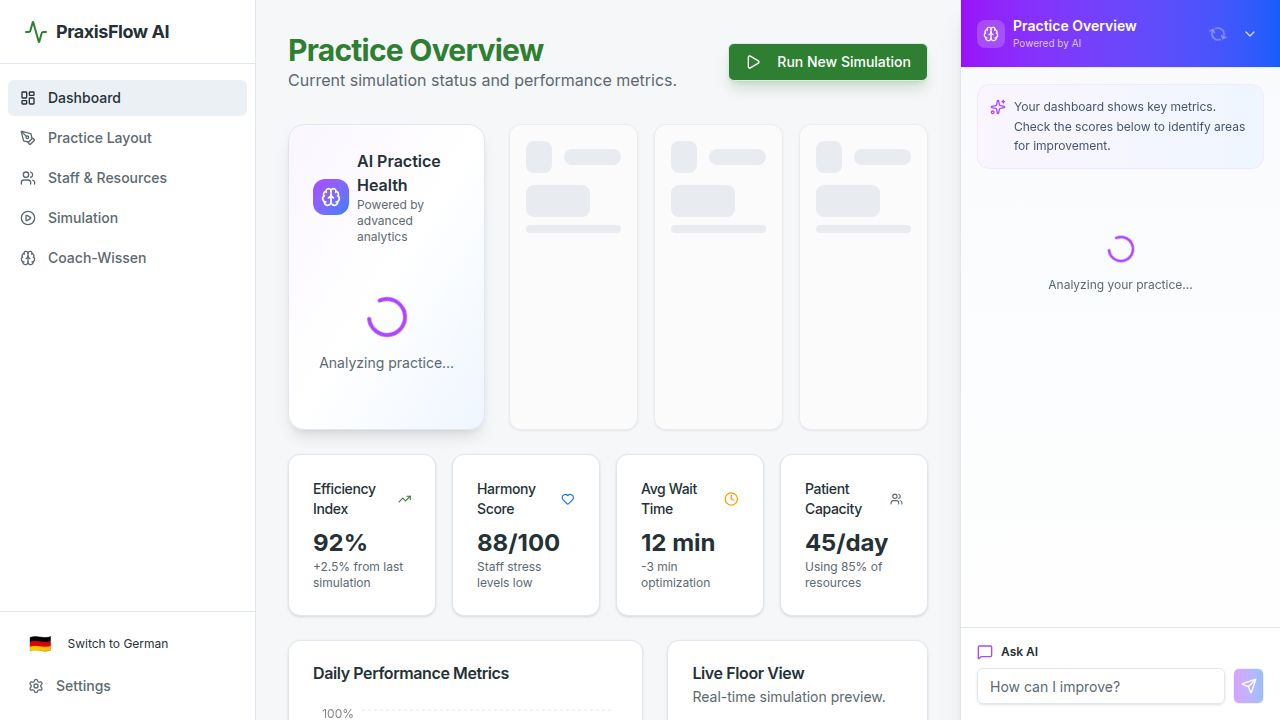
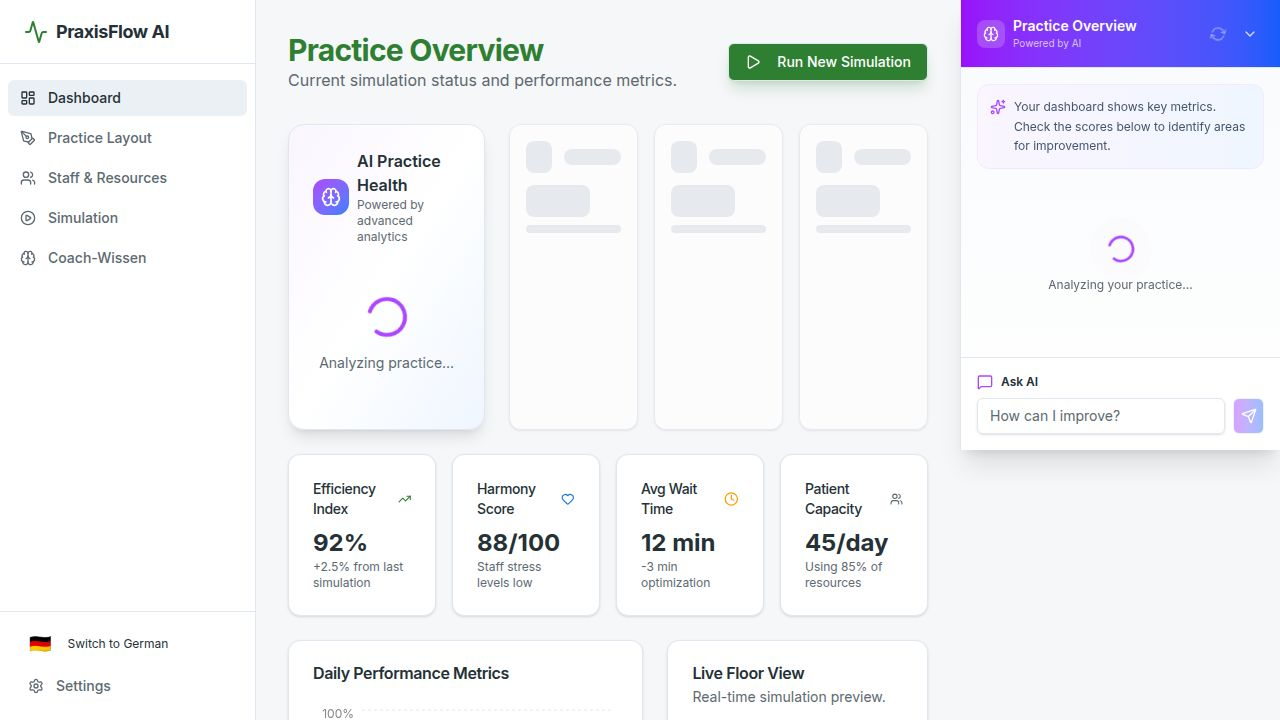
Improve app responsiveness for mobile devices
Introduce a mobile navigation component, adjust layout elements for smaller screens, and optimize key pages like Dashboard and Knowledge for better mobile usability.

Replit-Commit-Author: Agent
Replit-Commit-Session-Id: fae6921c-8e71-4e67-bf3e-06e2dc8d6d11
Replit-Commit-Checkpoint-Type: full_checkpoint
Replit-Commit-Event-Id: 71e1a9fe-9b61-4a62-8eae-fed97d4e99fb
Replit-Commit-Screenshot-Url: https://storage.googleapis.com/screenshot-production-us-central1/a2cf8f82-81da-4be9-860d-9f28859fb2c5/fae6921c-8e71-4e67-bf3e-06e2dc8d6d11/wstIgYH
Replit-Helium-Checkpoint-Created: true

diff --git a/client/src/components/layout/MobileNav.tsx b/client/src/components/layout/MobileNav.tsx
@@ -1,0 +1,71 @@
+import { useState } from "react";
+import { Link, useLocation } from "wouter";
+import { cn } from "@/lib/utils";
+import { LayoutDashboard, PenTool, Users, PlayCircle, Brain, Menu, X, Activity, Settings } from "lucide-react";
+import { useTranslation } from "react-i18next";
+import { LanguageToggle } from "./LanguageToggle";
+import { Button } from "@/components/ui/button";
+import { Sheet, SheetContent, SheetTrigger } from "@/components/ui/sheet";
+
+export function MobileNav() {
+  const [open, setOpen] = useState(false);
+  const [location] = useLocation();
+  const { t } = useTranslation();
+
+  const navItems = [
+    { icon: LayoutDashboard, label: t("nav.dashboard"), href: "/" },
+    { icon: PenTool, label: t("nav.layout"), href: "/editor" },
+    { icon: Users, label: t("nav.staff"), href: "/staff" },
+    { icon: PlayCircle, label: t("nav.simulation"), href: "/simulation" },
+    { icon: Brain, label: t("nav.knowledge", "Coach-Wissen"), href: "/knowledge" },
+  ];
+
+  return (
+    <div className="md:hidden flex h-14 items-center justify-between border-b bg-background px-4">
+      <div className="flex items-center gap-2">
+        <Activity className="h-5 w-5 text-primary" />
+        <span className="font-bold text-sm">{t("app.title")}</span>
+      </div>
+      
+      <Sheet open={open} onOpenChange={setOpen}>
+        <SheetTrigger asChild>
+          <Button variant="ghost" size="icon" data-testid="button-mobile-menu">
+            <Menu className="h-5 w-5" />
+          </Button>
+        </SheetTrigger>
+        <SheetContent side="left" className="w-64 p-0">
+          <div className="flex h-14 items-center border-b px-4">
+            <Activity className="mr-2 h-5 w-5 text-primary" />
+            <span className="font-bold">{t("app.title")}</span>
+          </div>
+          <nav className="flex-1 py-4 px-2 space-y-1">
+            {navItems.map((item) => {
+              const isActive = location === item.href;
+              return (
+                <Link 
+                  key={item.href} 
+                  href={item.href}
+                  onClick={() => setOpen(false)}
+                  className={cn(
+                    "flex items-center gap-3 rounded-md px-3 py-2 text-sm font-medium transition-colors",
+                    isActive ? "bg-accent text-accent-foreground" : "text-muted-foreground hover:bg-accent"
+                  )}
+                >
+                  <item.icon className="h-4 w-4" />
+                  {item.label}
+                </Link>
+              );
+            })}
+          </nav>
+          <div className="border-t p-4 space-y-2">
+            <LanguageToggle />
+            <div className="flex items-center gap-3 rounded-md px-3 py-2 text-sm font-medium text-muted-foreground">
+              <Settings className="h-4 w-4" />
+              {t("nav.settings")}
+            </div>
+          </div>
+        </SheetContent>
+      </Sheet>
+    </div>
+  );
+}

diff --git a/client/src/pages/Dashboard.tsx b/client/src/pages/Dashboard.tsx
@@ -200,15 +200,15 @@ export default function Dashboard() {
   };
 
   return (
-    <div className="flex-1 overflow-y-auto p-8">
-      <div className="flex items-center justify-between mb-8">
+    <div className="flex-1 overflow-y-auto p-4 md:p-8">
+      <div className="flex flex-col sm:flex-row sm:items-center justify-between gap-4 mb-6 md:mb-8">
         <div>
-          <h2 className="text-3xl font-bold tracking-tight text-primary" data-testid="text-dashboard-title">{t("dashboard.title")}</h2>
-          <p className="text-muted-foreground">{t("dashboard.subtitle")}</p>
+          <h2 className="text-2xl md:text-3xl font-bold tracking-tight text-primary" data-testid="text-dashboard-title">{t("dashboard.title")}</h2>
+          <p className="text-sm md:text-base text-muted-foreground">{t("dashboard.subtitle")}</p>
         </div>
         <div className="flex items-center space-x-2">
           <Link href="/simulation">
-            <Button className="bg-primary hover:bg-primary/90 text-white shadow-lg shadow-primary/20 transition-all hover:scale-105 active:scale-95" data-testid="button-run-simulation">
+            <Button className="bg-primary hover:bg-primary/90 text-white shadow-lg shadow-primary/20 transition-all hover:scale-105 active:scale-95 w-full sm:w-auto" data-testid="button-run-simulation">
               <Play className="mr-2 h-4 w-4" /> {t("dashboard.runSim")}
             </Button>
           </Link>
@@ -316,10 +316,10 @@ export default function Dashboard() {
 
         <StatsCards />
         
-        <div className="grid gap-6 md:grid-cols-2 lg:grid-cols-7">
+        <div className="grid gap-6 grid-cols-1 lg:grid-cols-7">
           <EfficiencyChart />
           
-          <div className="col-span-3 rounded-xl border bg-card text-card-foreground shadow-sm overflow-hidden flex flex-col">
+          <div className="lg:col-span-3 rounded-xl border bg-card text-card-foreground shadow-sm overflow-hidden flex flex-col">
             <div className="p-6 flex flex-col space-y-1.5">
               <h3 className="font-semibold leading-none tracking-tight">{t("dashboard.liveView")}</h3>
               <p className="text-sm text-muted-foreground">{t("dashboard.liveViewDesc")}</p>

diff --git a/client/src/pages/Knowledge.tsx b/client/src/pages/Knowledge.tsx
@@ -113,17 +113,17 @@ export default function Knowledge() {
   };
 
   return (
-    <div className="flex flex-col h-[calc(100vh-4rem)]" data-testid="page-knowledge">
-      <div className="border-b p-4 flex items-center justify-between bg-background/95 backdrop-blur">
-        <div className="flex items-center gap-3">
-          <div className="p-2 rounded-lg bg-primary/10">
-            <Brain className="h-6 w-6 text-primary" />
+    <div className="flex flex-col h-[calc(100vh-3.5rem)] md:h-[calc(100vh-4rem)]" data-testid="page-knowledge">
+      <div className="border-b p-3 md:p-4 flex items-center justify-between bg-background/95 backdrop-blur">
+        <div className="flex items-center gap-2 md:gap-3">
+          <div className="p-1.5 md:p-2 rounded-lg bg-primary/10">
+            <Brain className="h-5 w-5 md:h-6 md:w-6 text-primary" />
           </div>
           <div>
-            <h1 className="text-lg font-semibold" data-testid="heading-knowledge">
+            <h1 className="text-base md:text-lg font-semibold" data-testid="heading-knowledge">
               AI Praxis-Coach
             </h1>
-            <p className="text-xs text-muted-foreground">
+            <p className="text-[10px] md:text-xs text-muted-foreground hidden sm:block">
               Ihr persönlicher Berater für Praxisoptimierung
             </p>
           </div>
@@ -133,9 +133,10 @@ export default function Knowledge() {
           size="sm" 
           onClick={handleNewChat}
           data-testid="button-new-chat"
+          className="text-xs md:text-sm"
         >
-          <RefreshCw className="h-4 w-4 mr-2" />
-          Neuer Chat
+          <RefreshCw className="h-4 w-4 md:mr-2" />
+          <span className="hidden md:inline">Neuer Chat</span>
         </Button>
       </div>
 

diff --git a/client/src/components/layout/AppLayout.tsx b/client/src/components/layout/AppLayout.tsx
@@ -1,5 +1,6 @@
 import { ReactNode } from "react";
 import { Sidebar } from "./Sidebar";
+import { MobileNav } from "./MobileNav";
 import { GlobalAIPanel } from "./GlobalAIPanel";
 
 interface AppLayoutProps {
@@ -8,12 +9,17 @@ interface AppLayoutProps {
 
 export function AppLayout({ children }: AppLayoutProps) {
   return (
-    <div className="flex h-screen bg-background">
-      <Sidebar />
+    <div className="flex h-screen bg-background flex-col md:flex-row">
+      <MobileNav />
+      <div className="hidden md:block">
+        <Sidebar />
+      </div>
       <main className="flex-1 overflow-y-auto">
         {children}
       </main>
-      <GlobalAIPanel />
+      <div className="hidden lg:block">
+        <GlobalAIPanel />
+      </div>
     </div>
   );
 }
